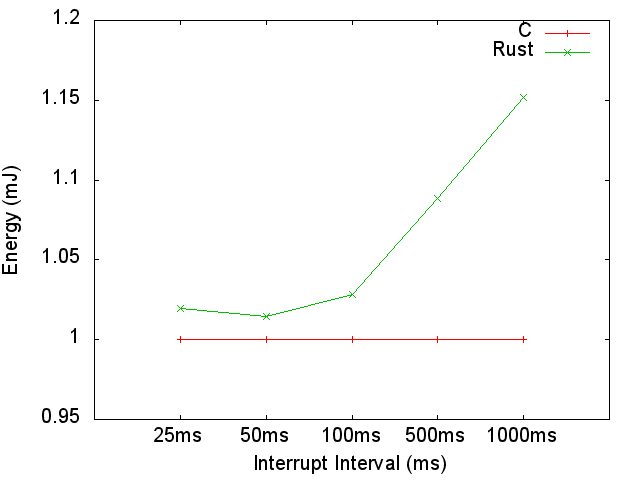
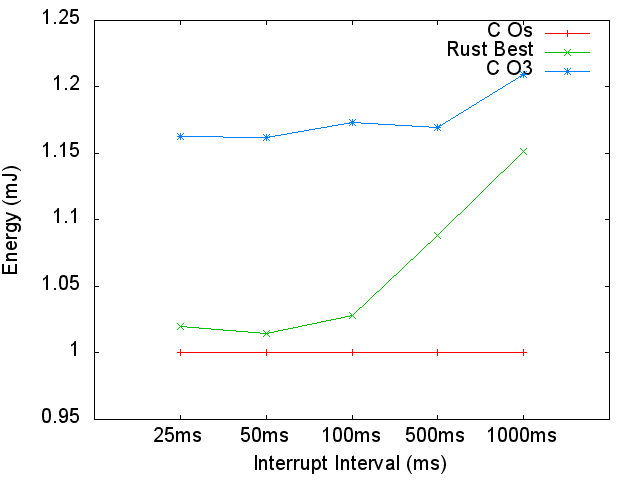
Added cache problem section

diff --git a/results/energy.tex b/results/energy.tex
@@ -40,7 +40,9 @@ To vary the workload, the number of triggered interrupts was varied by configuri
 \end{table}
 
 The measurement was performed at all the standard optimization levels provided by the compilers.
+This is done to remove the bias where different application have better performance on different optimization levels.
 As noted in \autoref{sec:res:code-size} these are \emph{O0}, \emph{O1}, \emph{O2}, \emph{O3} and \emph{Os} (only available for {\C}).
+As we will see in the results below, by including all the optimization levels we uncovered another bias related to energy consumptions.
 The \emph{O0} levels were only evaluated with debugging symbols.
 
 \subsubsection{Results}
@@ -88,7 +90,7 @@ Later we will consider the best configured {\C} application together with best c
 
 \autoref{fig:res:energy:comparison} shows the energy consumption for each of the workloads and compares the optimization levels for {\rust} and {\C}.
 We see that {\rust} and {\C} has comparable consumption in each of the workload configurations.
-The {\rust} versions provides a more predictable result. where higher optimization levels perform generally well, while {\C}'s higher optimization levels perform worse than unoptimized code.
+It is also evident that an external bias, investigated below, accounts for the variance between the various optimization levels.
 
 Now we look at the relative performance comparing the version with lowest energy consumption for each workload.
 For the {\C} code we can easily see from \autoref{fig:res:energy:comparison} that this is produced by the \emph{Os} level.
@@ -102,6 +104,39 @@ The {\rust} versions on the other hand are either \emph{O1}, \emph{O2} or \emph{
 
 \autoref{fig:res:energy:best} shows the relative energy consumption by setting the consumption of the {\C} \emph{Os} build to 1 for each of the workload.
 The {\rust} line plots the best performing {\rust} builds relative to this {\C} build.
+For reference the results for the \emph{O3} optimization level of the {\C} build is included.
+We see that the {\rust} code is always within the 15\% of the {\C} code in energy consumption and below the \emph{O3} line.
 
-We see that the {\rust} code is always within 15\% of the {\C} code in energy consumption.
-A surprising result is that the difference increases as the workload decreases.
+
+The variance between the different optimization levels in \autoref{fig:res:energy:comparison} was unexpected.
+In this application we anticipated that higher optimization levels would result in faster interrupt handlers and thus lower energy consumption.
+When the initial results did not meet these expectation we used the \emph{Energy Profiler} to plot the instantaneous current drawn by the application.
+
+\begin{figure}[H]
+  \includegraphics[width=\textwidth]{results/plots/energy/irq/50.png}
+  \caption{Current of 50ms workload}
+  \label{fig:res:energy:current}
+\end{figure}
+
+\autoref{fig:res:energy:current} plots the current drawn by the {\gecko} while handling an interrupt and the idle state between interrupts.
+The first thing to notice about the plot is that the time it takes to handle an interrupt is constant for the various optimization levels.
+This contradicts our assumptions of the higher optimization levels producing faster interrupt handlers.
+The second point is the difference in current drawn by the {\gecko} while handling the interrupts.
+We can see the O3 level draws more current compared to the Os level, to explain this result we looked at the instruction cache hit ratio.
+
+\begin{table}[H]
+  \centering
+  \begin{tabular}{l | l | l | l | l}
+    \textbf{Language} & \textbf{Level} & \textbf{Hits} & \textbf{Misses} & \textbf{Hit Ratio} \\
+    \hline
+    C & O3 & 110969 & 43429 & 71.9\% \\
+    C & Os & 162029 & 614 & 99.6\% \\
+    \hline
+  \end{tabular}
+  \caption{}
+  \label{tab:}
+\end{table}
+
+\autoref{tab:res:energy:cache} shows the cache hit ratios recorded for binaries presented in \autoref{fig:res:energy:current}.
+We see that the cache hit ratio for the binary compiled with O3 has a hit ratio of 72\% while the Os level has as high as 99\%.
+The lower instruction cache hit ratio causes the {\gecko} to load instructions from flash more frequently and thus consumes more energy.
